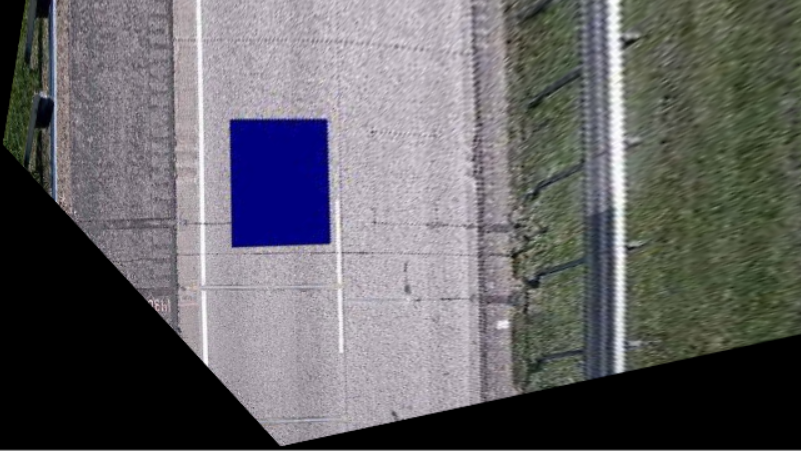
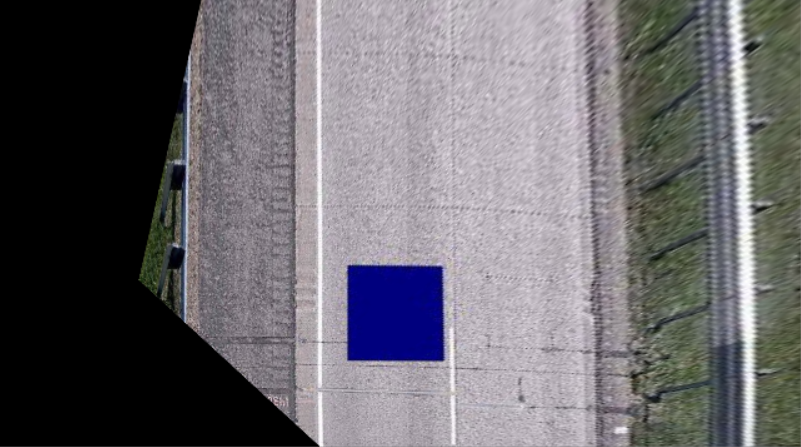
doing some fixes

diff --git a/transform.py b/transform.py
@@ -39,24 +39,14 @@ def four_point_transform(image, points):
 	widthA = np.sqrt(((br[0] - bl[0]) ** 2) + ((br[1] - bl[1]) ** 2))
 	widthB = np.sqrt(((tr[0] - tl[0]) ** 2) + ((tr[1] - tl[1]) ** 2))
 	maxWidth = max(int(widthA), int(widthB))
-	# compute the height of the new image, which will be the
-	# maximum distance between the top-right and bottom-right
-	# y-coordinates or the top-left and bottom-left y-coordinates.
-	heightA = np.sqrt(((tr[0] - br[0]) ** 2) + ((tr[1] - br[1]) ** 2))
-	heightB = np.sqrt(((tl[0] - bl[0]) ** 2) + ((tl[1] - bl[1]) ** 2))
-	maxHeight = max(int(heightA), int(heightB))
 
 	# now that we have the dimensions of the new image, construct
 	# the set of destination points to obtain a "birds eye view".
-	
-	# but when i constructed the image it was shifted, since the maxWidth
-	# and maxHeight are regarding the box and we want top view of the entire
-	# street, so i had to add some values in all the x and y to shift 
-	# the top view to appear correctly.
-	destination_points = np.array([[185, 95],
-		[maxWidth+185 , 95],
-		[maxWidth+185 , maxHeight+95],
-		[185, maxHeight+95]], dtype = "float32")
+	destination_points = np.array([tl,
+		[maxWidth+tl[0] , tl[1]],
+		[maxWidth+tl[0] , maxWidth+tl[1]],
+		[tl[0], maxWidth+tl[1]]], dtype = "float32")
+		
 	# compute the perspective transform matrix and then warp it to
 	# the whole image size.
 	transform_matrix = cv2.getPerspectiveTransform(ordered_points, destination_points)

diff --git a/topview.py b/topview.py
@@ -1,6 +1,7 @@
 from transform import four_point_transform
 import argparse
 import cv2
+import numpy as np
 import imutils
 
 def BuildArgparser():
@@ -18,14 +19,14 @@ def FindContour(image):
     This function is specified for determining the contour of the box
 	in order to know the coordinates of the box in the image.
     """	
-	# convert the image to grayscale, blur it, and find edges
-	# in the image.
-	gray_image = cv2.cvtColor(image, cv2.COLOR_BGR2GRAY)
-	blurred_image = cv2.GaussianBlur(gray_image, (5, 5), 0)
-	edged_image = cv2.Canny(blurred_image, 75, 200)
-	# find the contours in the edged image, keeping only the
+	# extract the blue masks in the image.
+	imghsv = cv2.cvtColor(image, cv2.COLOR_BGR2HSV)
+	lower_blue = np.array([110,50,50])
+	upper_blue = np.array([130,255,255])
+	mask_blue = cv2.inRange(imghsv, lower_blue, upper_blue)
+	# find the blue contours in the image, keeping only the
 	# largest ones.
-	contours = cv2.findContours(edged_image.copy(), cv2.RETR_LIST, cv2.CHAIN_APPROX_SIMPLE)
+	contours = cv2.findContours(mask_blue.copy(), cv2.RETR_LIST, cv2.CHAIN_APPROX_SIMPLE)
 	contours = imutils.grab_contours(contours)
 	contours = sorted(contours, key = cv2.contourArea, reverse = True)[:5]
 	# loop over the contours
